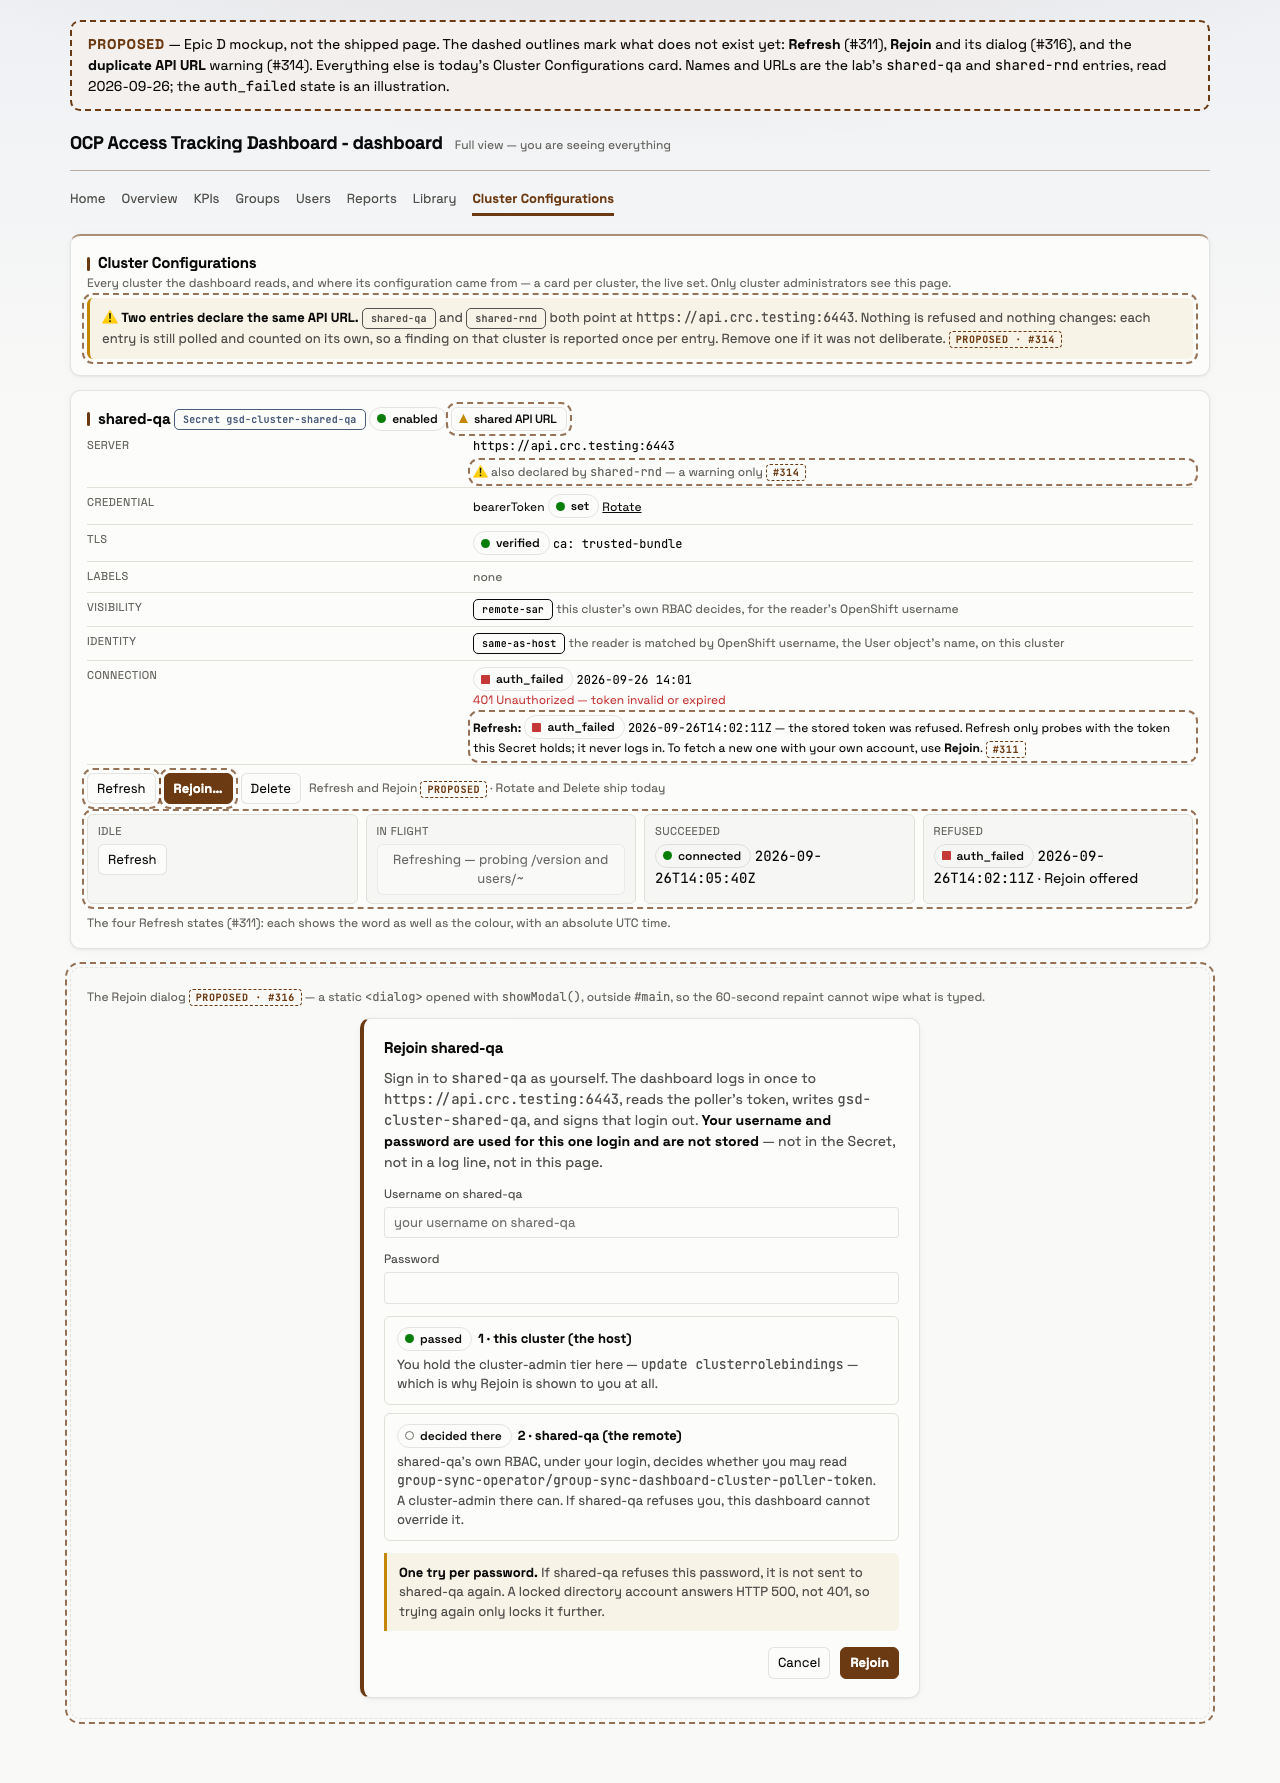
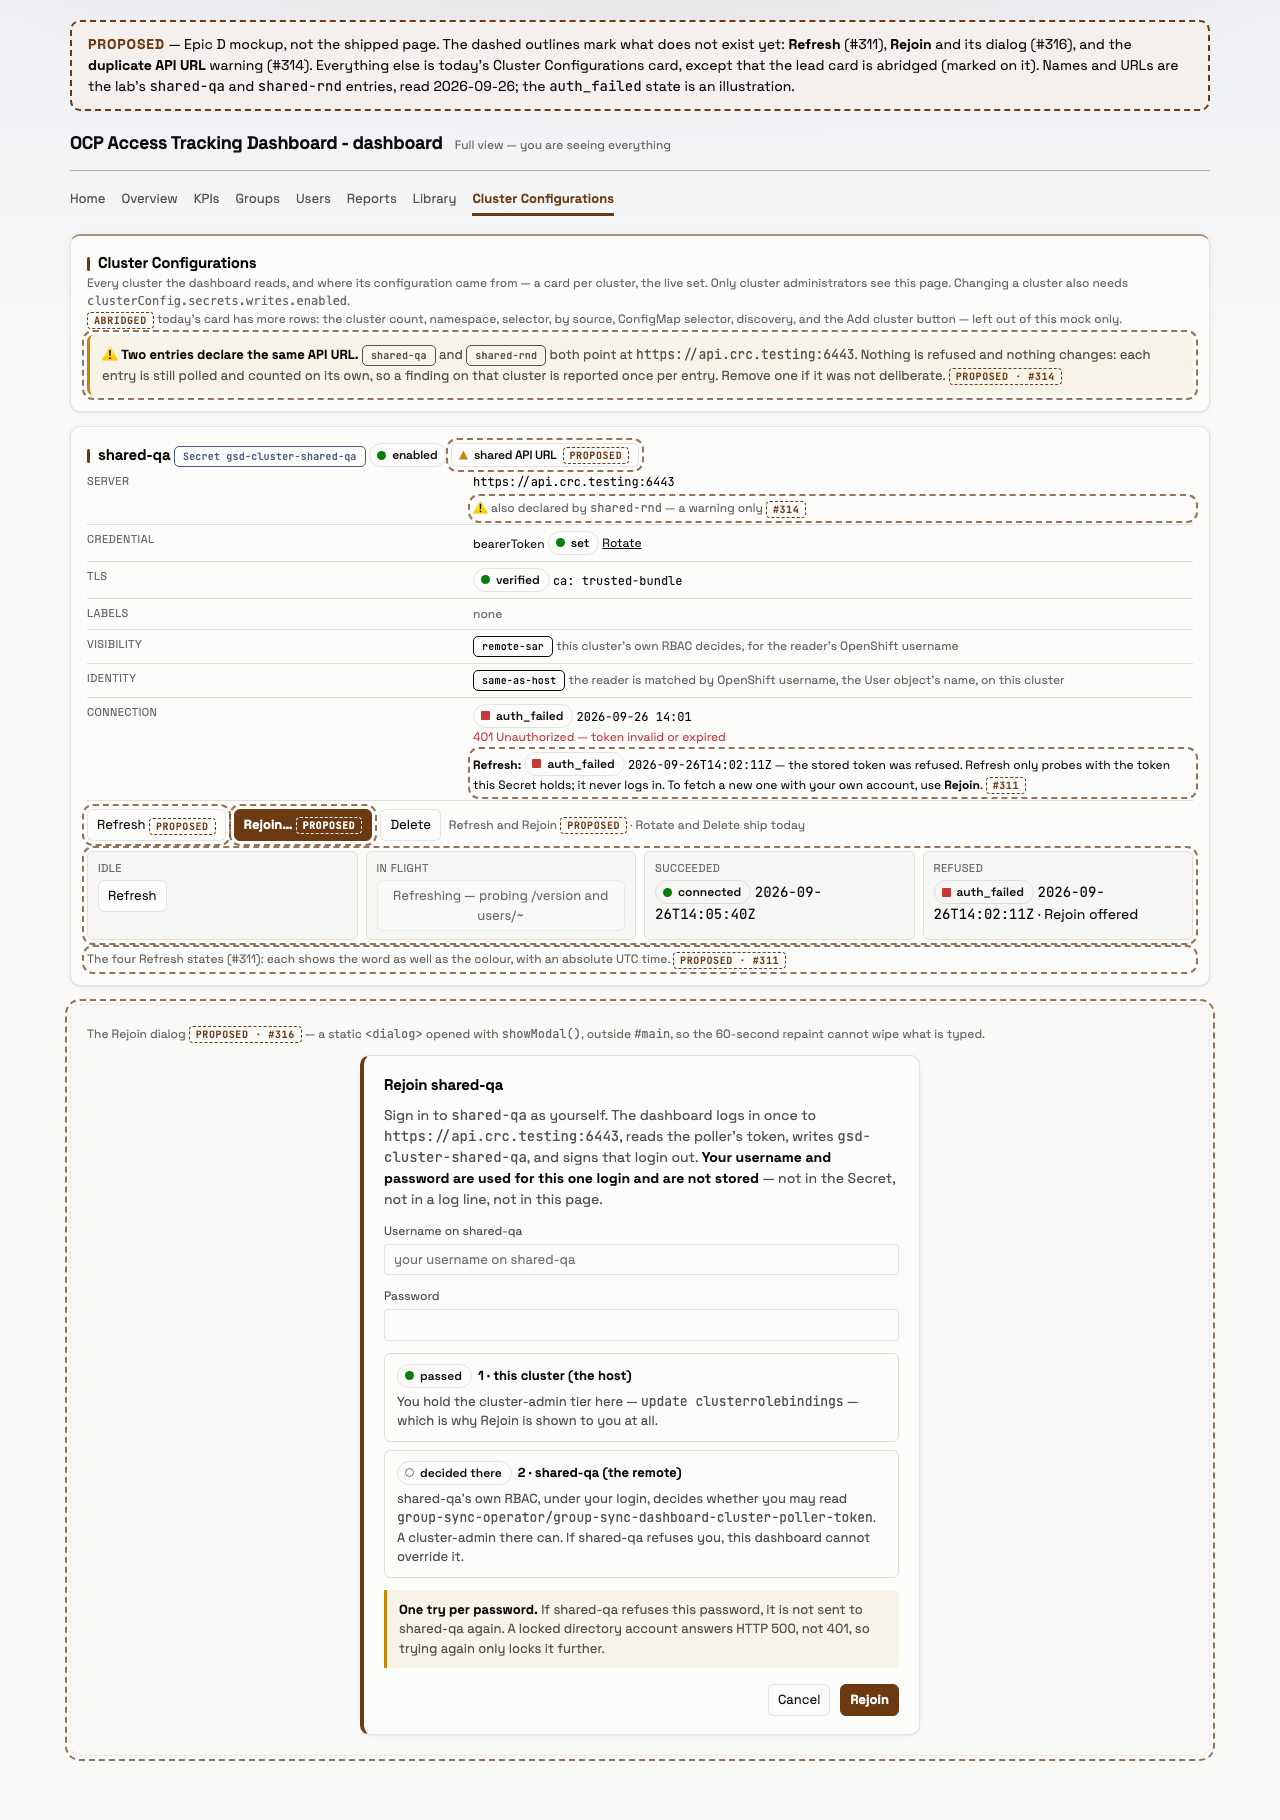
docs(design): Grok's review of #380 — every proposed control carries its own PROPOSED tag, the captions sit inside the proposed marking, and the abridged current cards say so

Changed region(s): [[0.0625, 0.0, 0.9375, 0.9254], [0.6562, 0.9254, 0.6875, 0.9563], [0.5938, 0.9254, 0.625, 0.9563]]

diff --git a/docs/design/cluster-reconnect-mock.html b/docs/design/cluster-reconnect-mock.html
@@ -123,6 +123,7 @@ main > .card:first-child { border-top: 2px solid color-mix(in srgb, var(--accent
 .tag-proposed { display: inline-block; font-family: var(--font-mono); font-size: var(--text-micro); font-weight: 700; letter-spacing: .06em;
   text-transform: uppercase; color: var(--accent); border: 1px dashed var(--accent); border-radius: var(--radius-sm);
   padding: 0 var(--space-3); vertical-align: middle; white-space: nowrap; }
+.tag-on-acc { color: var(--surface-1); border-color: var(--surface-1); }
 .is-proposed { outline: 2px dashed color-mix(in srgb, var(--accent) 70%, transparent); outline-offset: 3px; border-radius: var(--radius-md); }
 .states { display: grid; grid-template-columns: repeat(auto-fit, minmax(230px, 1fr)); gap: var(--space-4); margin-top: var(--space-5); }
 .state { border: 1px solid var(--gridline); border-radius: var(--radius-md); padding: var(--space-4) var(--space-5); background: var(--zebra); min-width: 0; overflow-wrap: anywhere; }
@@ -155,7 +156,7 @@ button[disabled] { opacity: .6; cursor: progress; }
   <div class="proposed-banner" role="note">
     <strong>PROPOSED</strong> — Epic D mockup, not the shipped page. The dashed outlines mark what does not exist yet:
     <b>Refresh</b> (#311), <b>Rejoin</b> and its dialog (#316), and the <b>duplicate API URL</b> warning (#314).
-    Everything else is today's Cluster Configurations card. Names and URLs are the lab's <span class="mono">shared-qa</span>
+    Everything else is today's Cluster Configurations card, except that the lead card is abridged (marked on it). Names and URLs are the lab's <span class="mono">shared-qa</span>
     and <span class="mono">shared-rnd</span> entries, read 2026-09-26; the <span class="mono">auth_failed</span> state is an illustration.
   </div>
 
@@ -171,7 +172,8 @@ button[disabled] { opacity: .6; cursor: progress; }
   <main id="main">
     <section class="card" id="cc-head">
       <h2>Cluster Configurations</h2>
-      <div class="filterbar-note">Every cluster the dashboard reads, and where its configuration came from — a card per cluster, the live set. Only cluster administrators see this page.</div>
+      <div class="filterbar-note">Every cluster the dashboard reads, and where its configuration came from — a card per cluster, the live set. Only cluster administrators see this page. Changing a cluster also needs <code>clusterConfig.secrets.writes.enabled</code>.</div>
+      <div class="cc-hint"><span class="tag-proposed">abridged</span> today's card has more rows: the cluster count, namespace, selector, by source, ConfigMap selector, discovery, and the Add cluster button — left out of this mock only.</div>
       <div class="cc-warn is-proposed" role="status" id="cc-dup-url">
         <span aria-hidden="true">⚠</span> <strong>Two entries declare the same API URL.</strong>
         <span class="rp-chip cc-chip">shared-qa</span> and <span class="rp-chip cc-chip">shared-rnd</span> both point at
@@ -184,7 +186,7 @@ button[disabled] { opacity: .6; cursor: progress; }
     <article class="card cc-cluster" id="cc-cluster-shared-qa">
       <div class="row-wrap"><h2>shared-qa <span class="rp-chip cc-src-secret">Secret gsd-cluster-shared-qa</span>
         <span class="badge ok"><span class="glyph" aria-hidden="true"></span>enabled</span>
-        <span class="badge warning is-proposed"><span class="glyph" aria-hidden="true"></span>shared API URL</span></h2></div>
+        <span class="badge warning is-proposed"><span class="glyph" aria-hidden="true"></span>shared API URL <span class="tag-proposed">proposed</span></span></h2></div>
       <div class="cc-kv"><span class="k">server</span><span class="v"><span class="mono">https://api.crc.testing:6443</span>
         <div class="cc-hint is-proposed" style="margin-top: 8px">⚠ also declared by <span class="mono">shared-rnd</span> — a warning only <span class="tag-proposed">#314</span></div></span></div>
       <div class="cc-kv"><span class="k">credential</span><span class="v">bearerToken <span class="badge ok"><span class="glyph" aria-hidden="true"></span>set</span>
@@ -201,8 +203,8 @@ button[disabled] { opacity: .6; cursor: progress; }
           Secret holds; it never logs in. To fetch a new one with your own account, use <b>Rejoin</b>.
           <span class="tag-proposed">#311</span></div></span></div>
       <div class="cc-acts">
-        <button type="button" class="is-proposed" id="cc-refresh-shared-qa">Refresh</button>
-        <button type="button" class="cc-btn-acc is-proposed" id="cc-rejoin-shared-qa">Rejoin…</button>
+        <button type="button" class="is-proposed" id="cc-refresh-shared-qa">Refresh <span class="tag-proposed">proposed</span></button>
+        <button type="button" class="cc-btn-acc is-proposed" id="cc-rejoin-shared-qa">Rejoin… <span class="tag-proposed tag-on-acc">proposed</span></button>
         <button type="button" id="cc-delete-shared-qa">Delete</button>
         <span class="cc-hint">Refresh and Rejoin <span class="tag-proposed">proposed</span> · Rotate and Delete ship today</span>
       </div>
@@ -213,7 +215,7 @@ button[disabled] { opacity: .6; cursor: progress; }
         <div class="state"><span class="k">succeeded</span><span class="badge ok"><span class="glyph" aria-hidden="true"></span>connected</span> <span class="mono">2026-09-26T14:05:40Z</span></div>
         <div class="state"><span class="k">refused</span><span class="badge critical"><span class="glyph" aria-hidden="true"></span>auth_failed</span> <span class="mono">2026-09-26T14:02:11Z</span> · Rejoin offered</div>
       </div>
-      <div class="cc-hint">The four Refresh states (#311): each shows the word as well as the colour, with an absolute UTC time.</div>
+      <div class="cc-hint is-proposed">The four Refresh states (#311): each shows the word as well as the colour, with an absolute UTC time. <span class="tag-proposed">proposed · #311</span></div>
     </article>
   </main>
 

diff --git a/docs/design/kpi-backups-mock.html b/docs/design/kpi-backups-mock.html
@@ -1697,6 +1697,8 @@ h2 .cc-chips { display: inline-flex; vertical-align: middle; }
   border-radius: var(--radius-md); padding: var(--space-5) var(--space-7); font-size: var(--text-sm); margin-bottom: var(--space-8); }
 .proposed-banner b { color: var(--status-warning-edge); letter-spacing: .06em; }
 .kpi-page.is-proposed { outline: 2px dashed var(--status-warning-edge); outline-offset: 3px; }
+.kpi-page .abridged { font-family: var(--font-mono); font-size: var(--text-xs); font-weight: 500; color: var(--text-muted);
+  border: 1px dashed var(--border); border-radius: var(--radius-pill); padding: 1px var(--space-4); margin-left: var(--space-5); }
 .kpi-page .ptag { font-family: var(--font-mono); font-size: var(--text-xs); font-weight: 700; letter-spacing: .06em; text-transform: uppercase;
   color: var(--status-warning-edge); border: 1px solid var(--status-warning-edge); border-radius: var(--radius-pill); padding: 1px var(--space-4); margin-left: var(--space-5); }
 .kpi-page .kband.bk { grid-template-columns: repeat(5, 1fr); }
@@ -1736,7 +1738,7 @@ h2 .cc-chips { display: inline-flex; vertical-align: middle; }
   </div>
   <main id="main">
   <section class="card kpi-page">
-    <h2>System status <span class="asof"><span class="beat" aria-hidden="true"></span>updated 0s ago · refresh 60s</span></h2>
+    <h2>System status <span class="abridged">abridged — today's card also shows CPU, Throttled and the threshold rule</span><span class="asof"><span class="beat" aria-hidden="true"></span>updated 0s ago · refresh 60s</span></h2>
     <div class="sys">
       <div class="comp" data-comp="dashboard" data-state="ok">
         <div class="comp-top"><span class="comp-name">dashboard</span>
@@ -1754,7 +1756,7 @@ h2 .cc-chips { display: inline-flex; vertical-align: middle; }
           <div class="meter-row"><span class="meter-lab">Memory</span><span class="track" style="--th:80%"><span class="fill" style="width:8%"></span></span><span class="meter-val"><b>7.6%</b> of 768Mi</span></div>
           <div class="meter-row"><span class="meter-lab">Artefacts</span><span class="track" style="--th:80%"><span class="fill" style="width:67%"></span></span><span class="meter-val"><b>119Ki</b> · 10 files</span></div>
         </div>
-        <div class="sub">(unchanged by #306)</div>
+        <div class="sub">100Gi of 149Gi used on the artefact volume's disk</div>
       </div>
     </div>
   </section>
